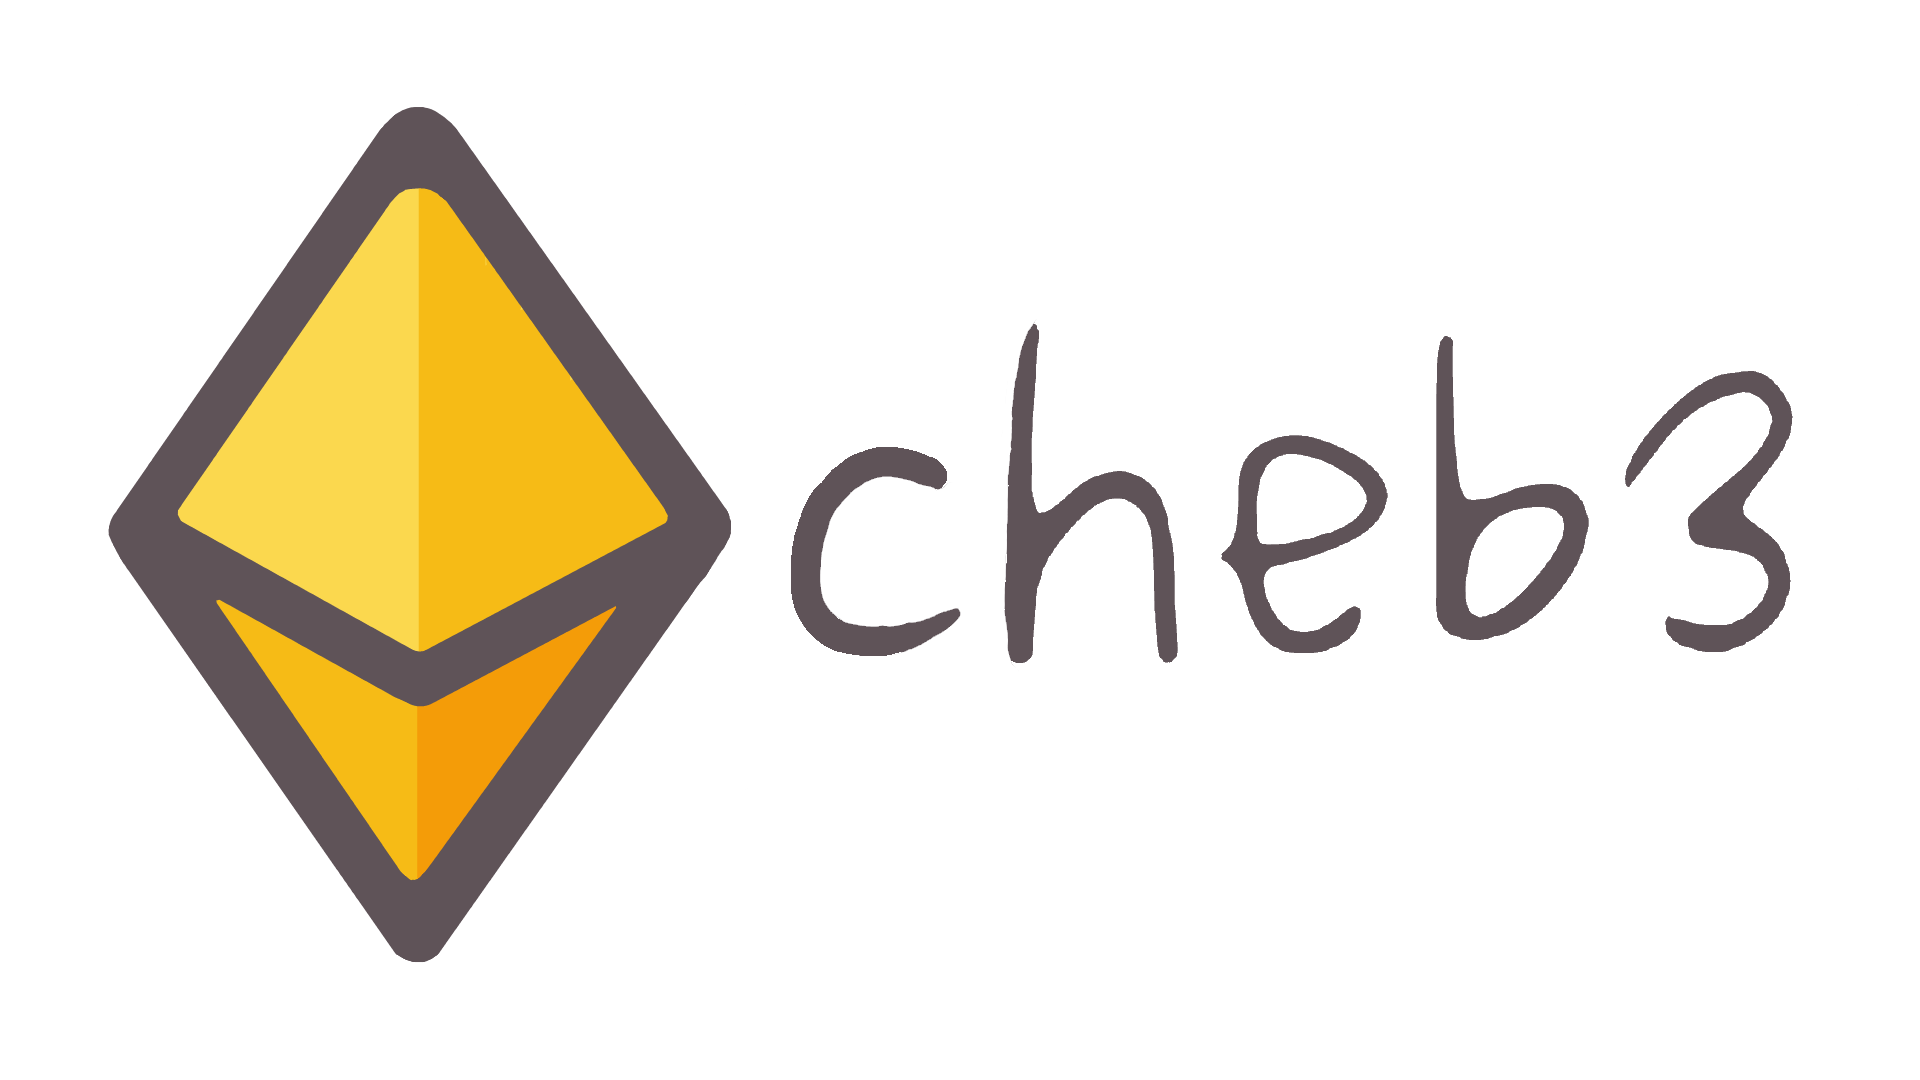
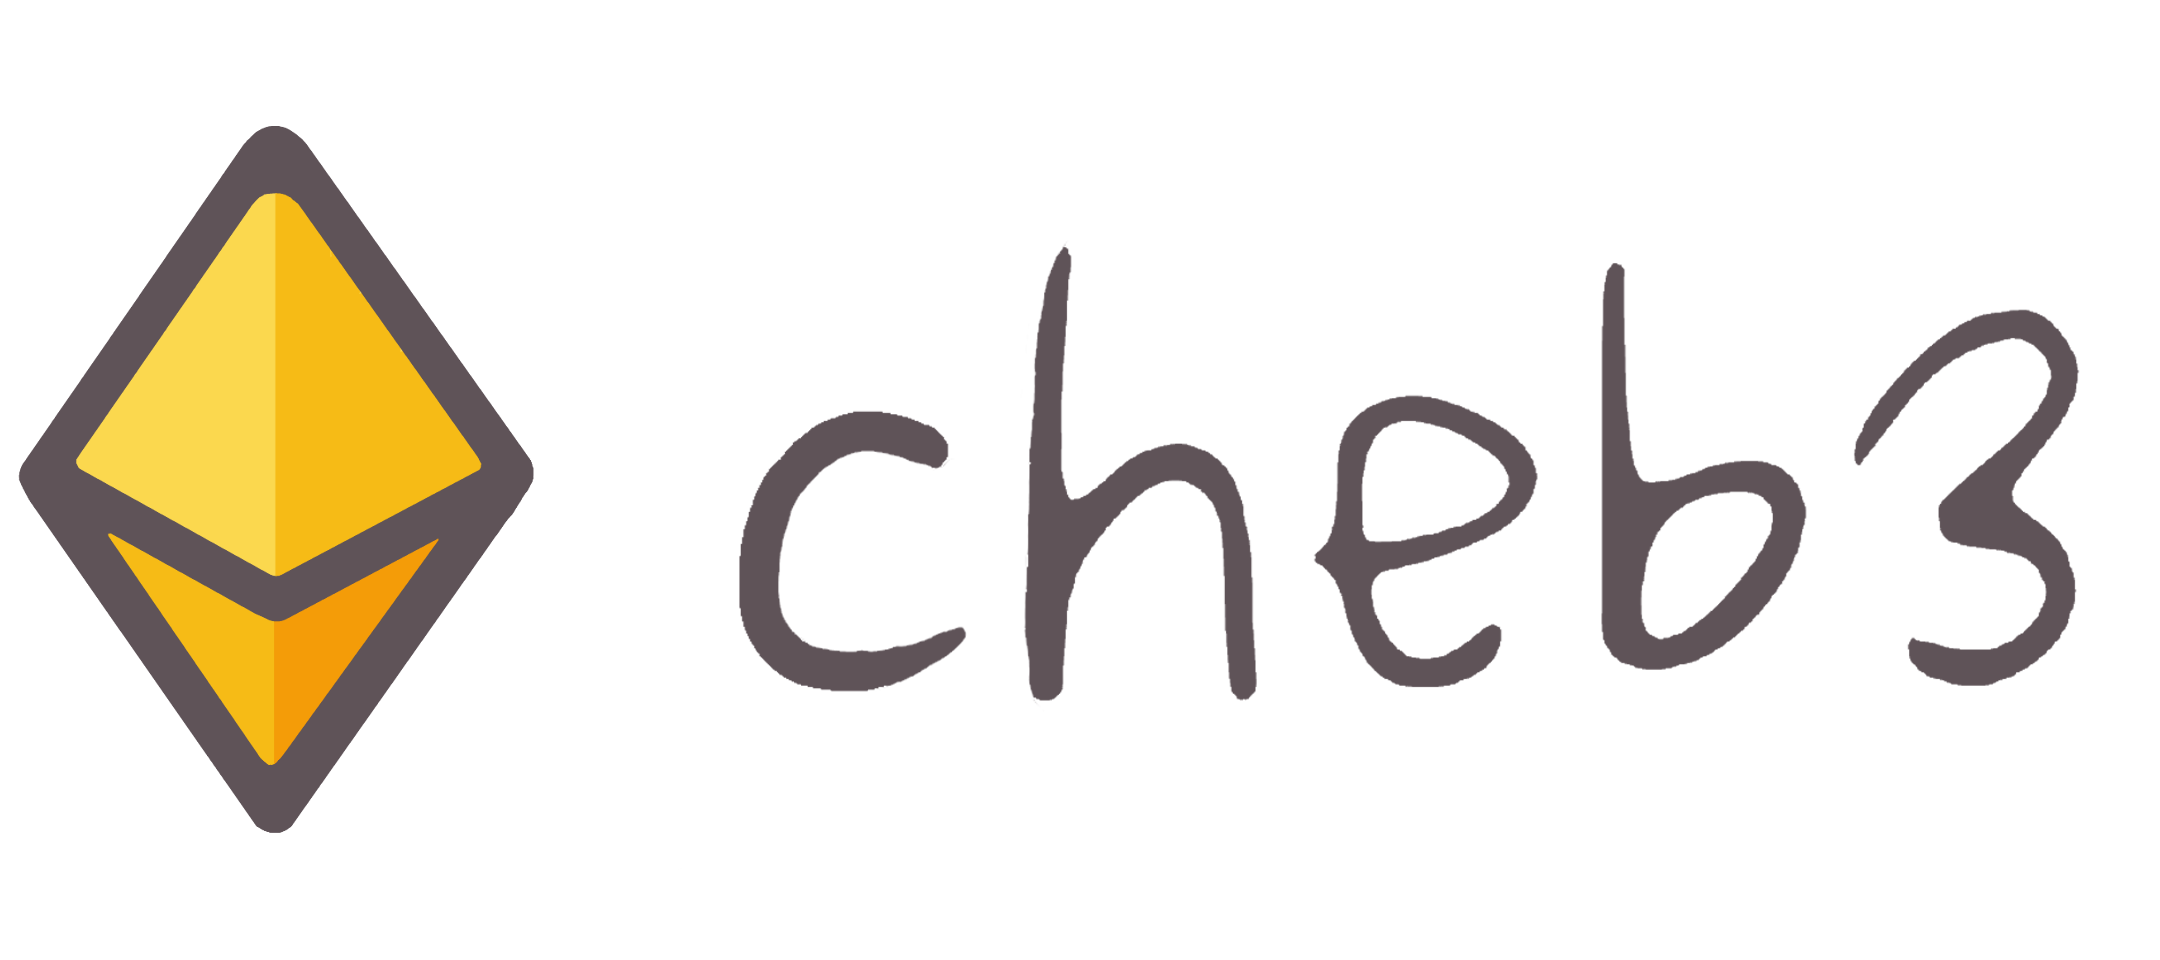
update img uwu

Changed region(s): [[0.0, 0.0938, 0.9688, 0.9062]]

diff --git a/README.md b/README.md
@@ -1,5 +1,5 @@
-<p align="center" style="display: flex;">
-    <img src="https://raw.githubusercontent.com/YanhuiJessica/cheb3/main/docs/_static/img/cheb3.png">
+<p align="center">
+    <img width="200" src="https://raw.githubusercontent.com/YanhuiJessica/cheb3/main/docs/_static/img/cheb3.png">
 </p>
 
 <p align="center">🐣 web3 CTF tool based on web3.py</p>
